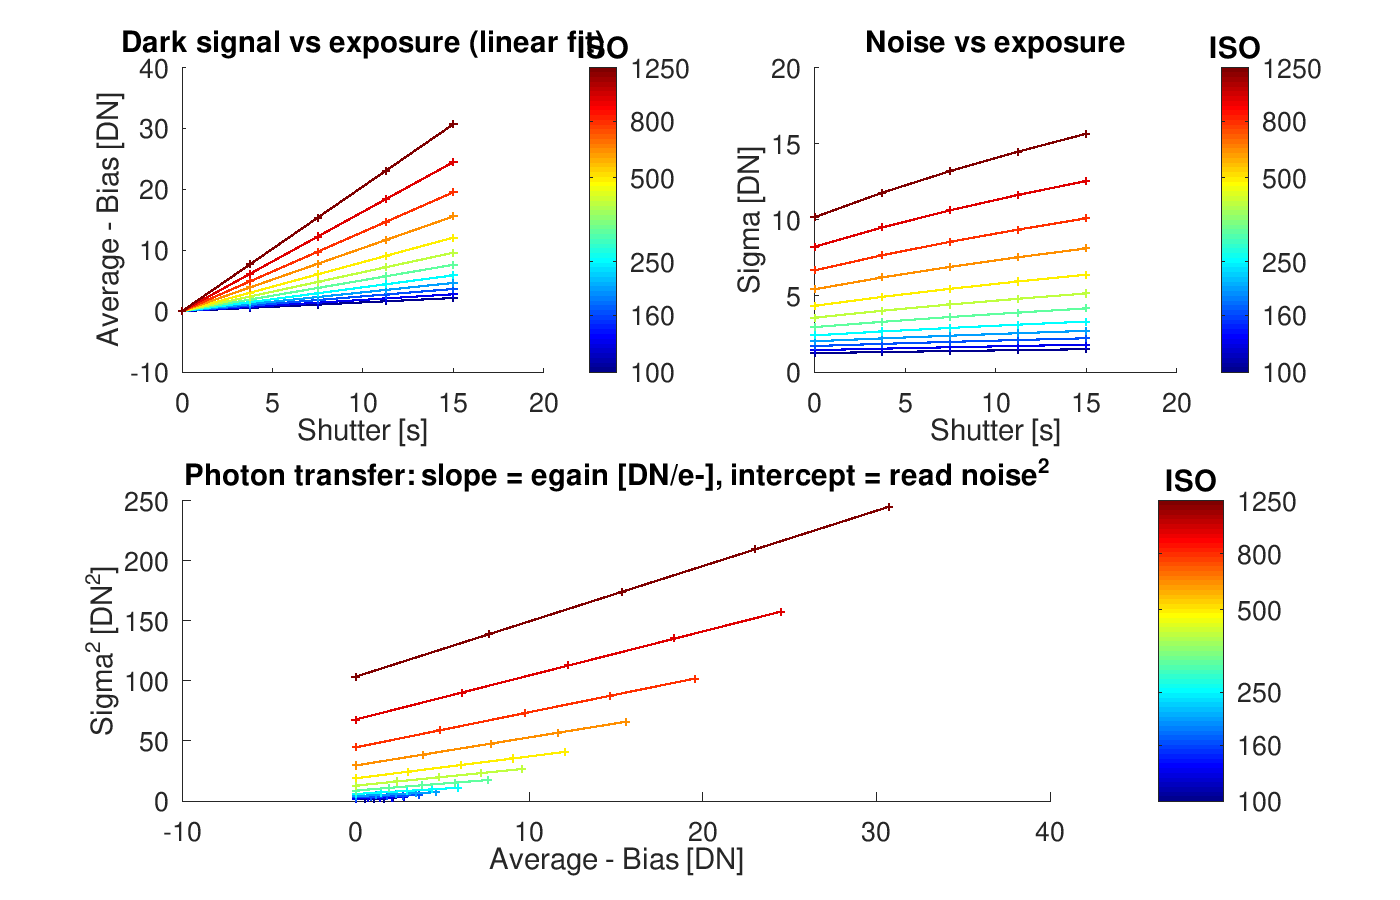
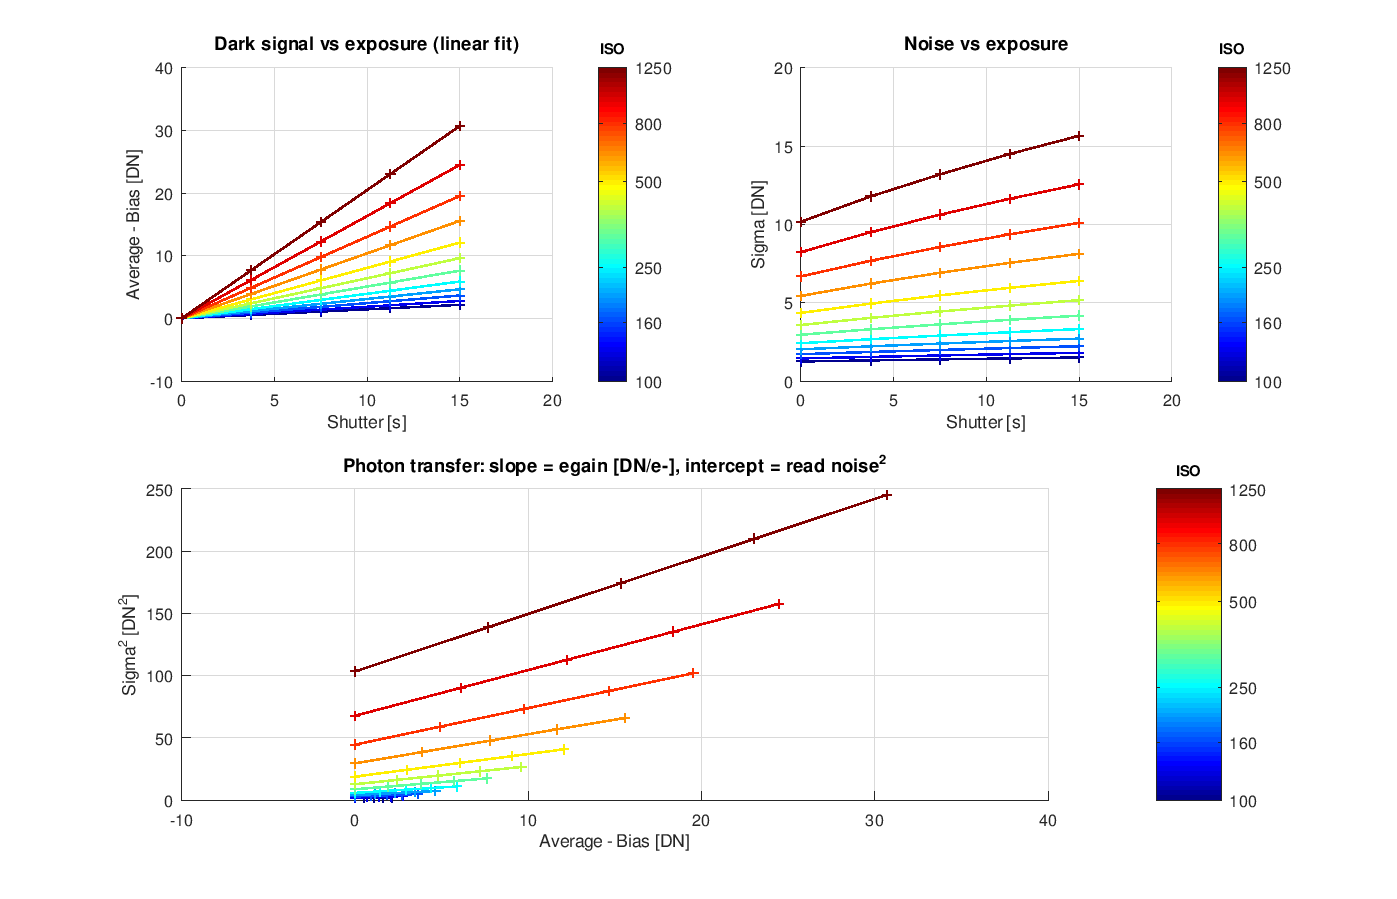
Refactor plotting functions and add sensor_save_png for improved figure handling and saving

diff --git a/sensor_plot.m b/sensor_plot.m
@@ -3,7 +3,7 @@ function sensor_plot(analysis)
 
     # Debug - Input data
     if true
-        figure(1, 'name', [p.name ' - Debug - Input data']); clf;
+        sensor_figure(1, [p.name ' - Debug - Input data']);
         colormap(iso_colormap());
 
         subplot(221);
@@ -25,16 +25,25 @@ function sensor_plot(analysis)
         title('Photon transfer: slope = egain [DN/e-], intercept = read noise^2');
     end
 
-    figure(2, 'name', [p.name ' - Sensor model']); clf;
+    sensor_figure(2, [p.name ' - Sensor model']);
     colormap(iso_colormap());
+    [xs, xname] = setting_axis(p);
+
     subplot(321);
+    % x = ISO equivalent so the egain fit is a straight line; ticks relabelled with gain for astro cameras
     [ax h1 h2] = plotyy(p.iso, p.egain, p.iso, p.read_noise);
     set ([h1, h2], "linestyle", "-");
     set ([h1, h2], "marker", "+");
     ylabel(ax(1), 'Egain [DN/e-]');
     ylabel(ax(2), 'Read Noise [DN]');
-    xlabel('ISO');
-    title(sprintf("Egain vs ISO: f(x) = %g * x + %g", p.iso2egain(1), p.iso2egain(2)));
+    if p.has_iso
+        xlabel('ISO');
+        title(sprintf("Egain vs ISO: f(x) = %g * x + %g", p.iso2egain(1), p.iso2egain(2)));
+    else
+        label_gain_ticks(ax, p);
+        xlabel('Gain [0.1 dB]  (linear in 100*10^{gain/200})');
+        title(sprintf("Egain vs gain: f(g) = %g * 100*10^{g/200} + %g", p.iso2egain(1), p.iso2egain(2)));
+    end
     grid on;
     hold on;
 
@@ -44,7 +53,12 @@ function sensor_plot(analysis)
     set ([h1, h2], "marker", "+");
     ylabel(ax(1), 'Egain [e-/DN]');
     ylabel(ax(2), 'Read Noise [e-]');
-    xlabel('ISO');
+    if p.has_iso
+        xlabel('ISO');
+    else
+        label_gain_ticks(ax, p);
+        xlabel('Gain [0.1 dB]  (linear in 100*10^{gain/200})');
+    end
     title('Gain and read noise in electrons');
     grid on;
 
@@ -66,6 +80,7 @@ function sensor_plot(analysis)
 
     subplot(326);
 
+    % Simulated single frame: signal and variance in DN for a given egain [DN/e-]
     U = @(camera, egain, exposure, photons) ...
           egain .* exposure .* photons;
 
@@ -73,37 +88,47 @@ function sensor_plot(analysis)
           egain .^ 2 .* exposure .* (photons + camera.dark_current) + ...
           (camera.egain2read_noise(1) .* egain + camera.egain2read_noise(2)) .^ 2;
 
-    exposure = 30; # s
-    egain    = 0.1; # DN/e-
-    photons  = 2; # e-/s
+    exposures = [10 15];  # s
+    photons   = 0.3;          # e-/s/pix, faint target / narrowband
 
-    egain = p.egain(2);
-    iso = p.iso;
-    x = p.iso2egain(1) .* iso + p.iso2egain(2);
+    x = p.egain(:);   # measured DN/e- per ISO/gain (linear iso2egain fit is poor when gain saturates)
 
-    L = U(p, egain .* x, exposure ./ x, photons) .^ 2;
-    M = V(p, egain .* x, exposure ./ x, photons) ./ (x);
-    SNR = L ./ M;
-
-    plot(iso, 10*log(SNR));
-    xlabel('ISO');
+    hold on;
+    for e = exposures
+        SNR = U(p, x, e, photons) ./ sqrt(V(p, x, e, photons));
+        plot(xs, 20 * log10(SNR), '-+');
+    end
+    hold off;
+    legend(arrayfun(@(e) sprintf('%g s', e), exposures, 'uniformoutput', false), 'location', 'east');
+    xlabel(xname);
     ylabel('SNR [dB]');
-    title(sprintf('SNR vs ISO (%g s, %g e-/s)', exposure, photons));
+    title(sprintf('SNR of a single frame, %g e-/s', photons));
     grid on;
 
-    save_png(1, [p.name '_input']);
-    save_png(2, [p.name '_model']);
-end
-
-function save_png(fig, name)
-    [~, ~] = mkdir('plots');
-    file = fullfile('plots', [name '.png']);
-    print(fig, file, '-dpng', '-S1400,900');
-    printf('saved %s\n', file);
+    sensor_save_png(1, [p.name '_input']);
+    sensor_save_png(2, [p.name '_model']);
 end
 
 function cmap = iso_colormap()
     cmap = jet(64);
+end
+
+# X axis in the camera's own units: ISO for DSLR, gain [0.1 dB] for astro cameras
+function [x, name] = setting_axis(p)
+    x = p.setting(:);
+    if p.has_iso
+        name = 'ISO';
+    else
+        name = 'Gain [0.1 dB]';
+    end
+end
+
+# Axes plotted against p.iso: put ~6 ticks at real gain settings, labelled with the gain value
+function label_gain_ticks(ax, p)
+    iso = p.iso(:)';
+    [~, k] = min(abs(iso' - linspace(min(iso), max(iso), 6)), [], 1);
+    k = unique(k);
+    set(ax, 'xtick', iso(k), 'xticklabel', num2str(p.setting(k)'));
 end
 
 # One line per ISO/gain setting coloured from blue (lowest) to red (highest), colorbar instead of legend.
@@ -136,6 +161,7 @@ function plot_iso(x, y, p, coeff)
         end
     end
     hold off;
+    grid on;
 
     # ~6 ticks evenly spread along the bar, snapped to real settings
     [~, k] = min(abs(v' - linspace(clim(1), clim(2), 6)), [], 1);

diff --git a/sensor_plot_iso_limit.m b/sensor_plot_iso_limit.m
@@ -3,12 +3,12 @@ function sensor_plot_iso_limit(analysis, iso_limit)
     % where the sensor's analog gain stops changing (higher ISO = digital scaling only).
     % Saves plots/<name>_iso_limit.png
     p = analysis;
-    iso   = p.iso(:);
+    iso   = p.setting(:);   % ISO (DSLR) or gain [0.1 dB] (astro camera), as set on the camera
     egain = p.egain(:);
     rn_dn = p.read_noise(:);
     rn_e  = rn_dn ./ egain;
 
-    figure(3, 'name', [p.name ' - analog gain limit']); clf;
+    sensor_figure(3, [p.name ' - analog gain limit']);
     xl = [min(iso) max(iso)] .* [0.9 1.1];
 
     subplot(211);
@@ -42,10 +42,7 @@ function sensor_plot_iso_limit(analysis, iso_limit)
     grid on;
     hold off;
 
-    [~, ~] = mkdir('plots');
-    file = fullfile('plots', [p.name '_iso_limit.png']);
-    print(3, file, '-dpng', '-S1400,900');
-    printf('saved %s\n', file);
+    sensor_save_png(3, [p.name '_iso_limit']);
 end
 
 function shade_above(iso_limit, iso, y)

diff --git a/sensor_save_png.m b/sensor_save_png.m
@@ -1,0 +1,13 @@
+function sensor_save_png(fig, name)
+    % Save figure to plots/<name>.png at its on-screen pixel size. print() defaults to
+    % 150 dpi while the screen is ~96 dpi, which would render fonts ~1.6x larger than
+    % shown; matching the screen dpi makes the file look like the window.
+    [~, ~] = mkdir('plots');
+    file = fullfile('plots', [name '.png']);
+    pos = get(fig, 'position');
+    dpi = get(0, 'screenpixelsperinch');
+    % -S would override -r, so set the paper size in inches and print at screen dpi
+    set(fig, 'paperunits', 'inches', 'paperposition', [0 0 pos(3:4) / dpi]);
+    print(fig, file, '-dpng', sprintf('-r%d', round(dpi)));
+    printf('saved %s\n', file);
+end

diff --git a/sensor_figure.m b/sensor_figure.m
@@ -1,0 +1,11 @@
+function fig = sensor_figure(n, name)
+    % Figure of fixed size with fonts sized for that window. Fonts are in points, so the
+    % window size decides how crowded the subplots look; sensor_save_png exports 1:1.
+    fig = figure(n, 'name', name);
+    clf(fig);
+    set(fig, 'position', [50 50 1400 900]);
+    set(fig, 'defaultaxesfontsize', 12, ...
+             'defaulttextfontsize', 13, ...
+             'defaultaxestitlefontsizemultiplier', 1.15, ...
+             'defaultlinelinewidth', 1.1);
+end

diff --git a/sensor_characterize.m b/sensor_characterize.m
@@ -1,8 +1,4 @@
 function analysis = sensor_characterize(name = 'ASI2600MM_5deg')
-    set(0, "defaulttextfontsize", 16)  % title
-    set(0, "defaultaxesfontsize", 11)  % axes labels
-    set(0, "defaultlinelinewidth", 1.1)
-
     analysis = load_stats(name);
 
     sensor_plot(analysis);
